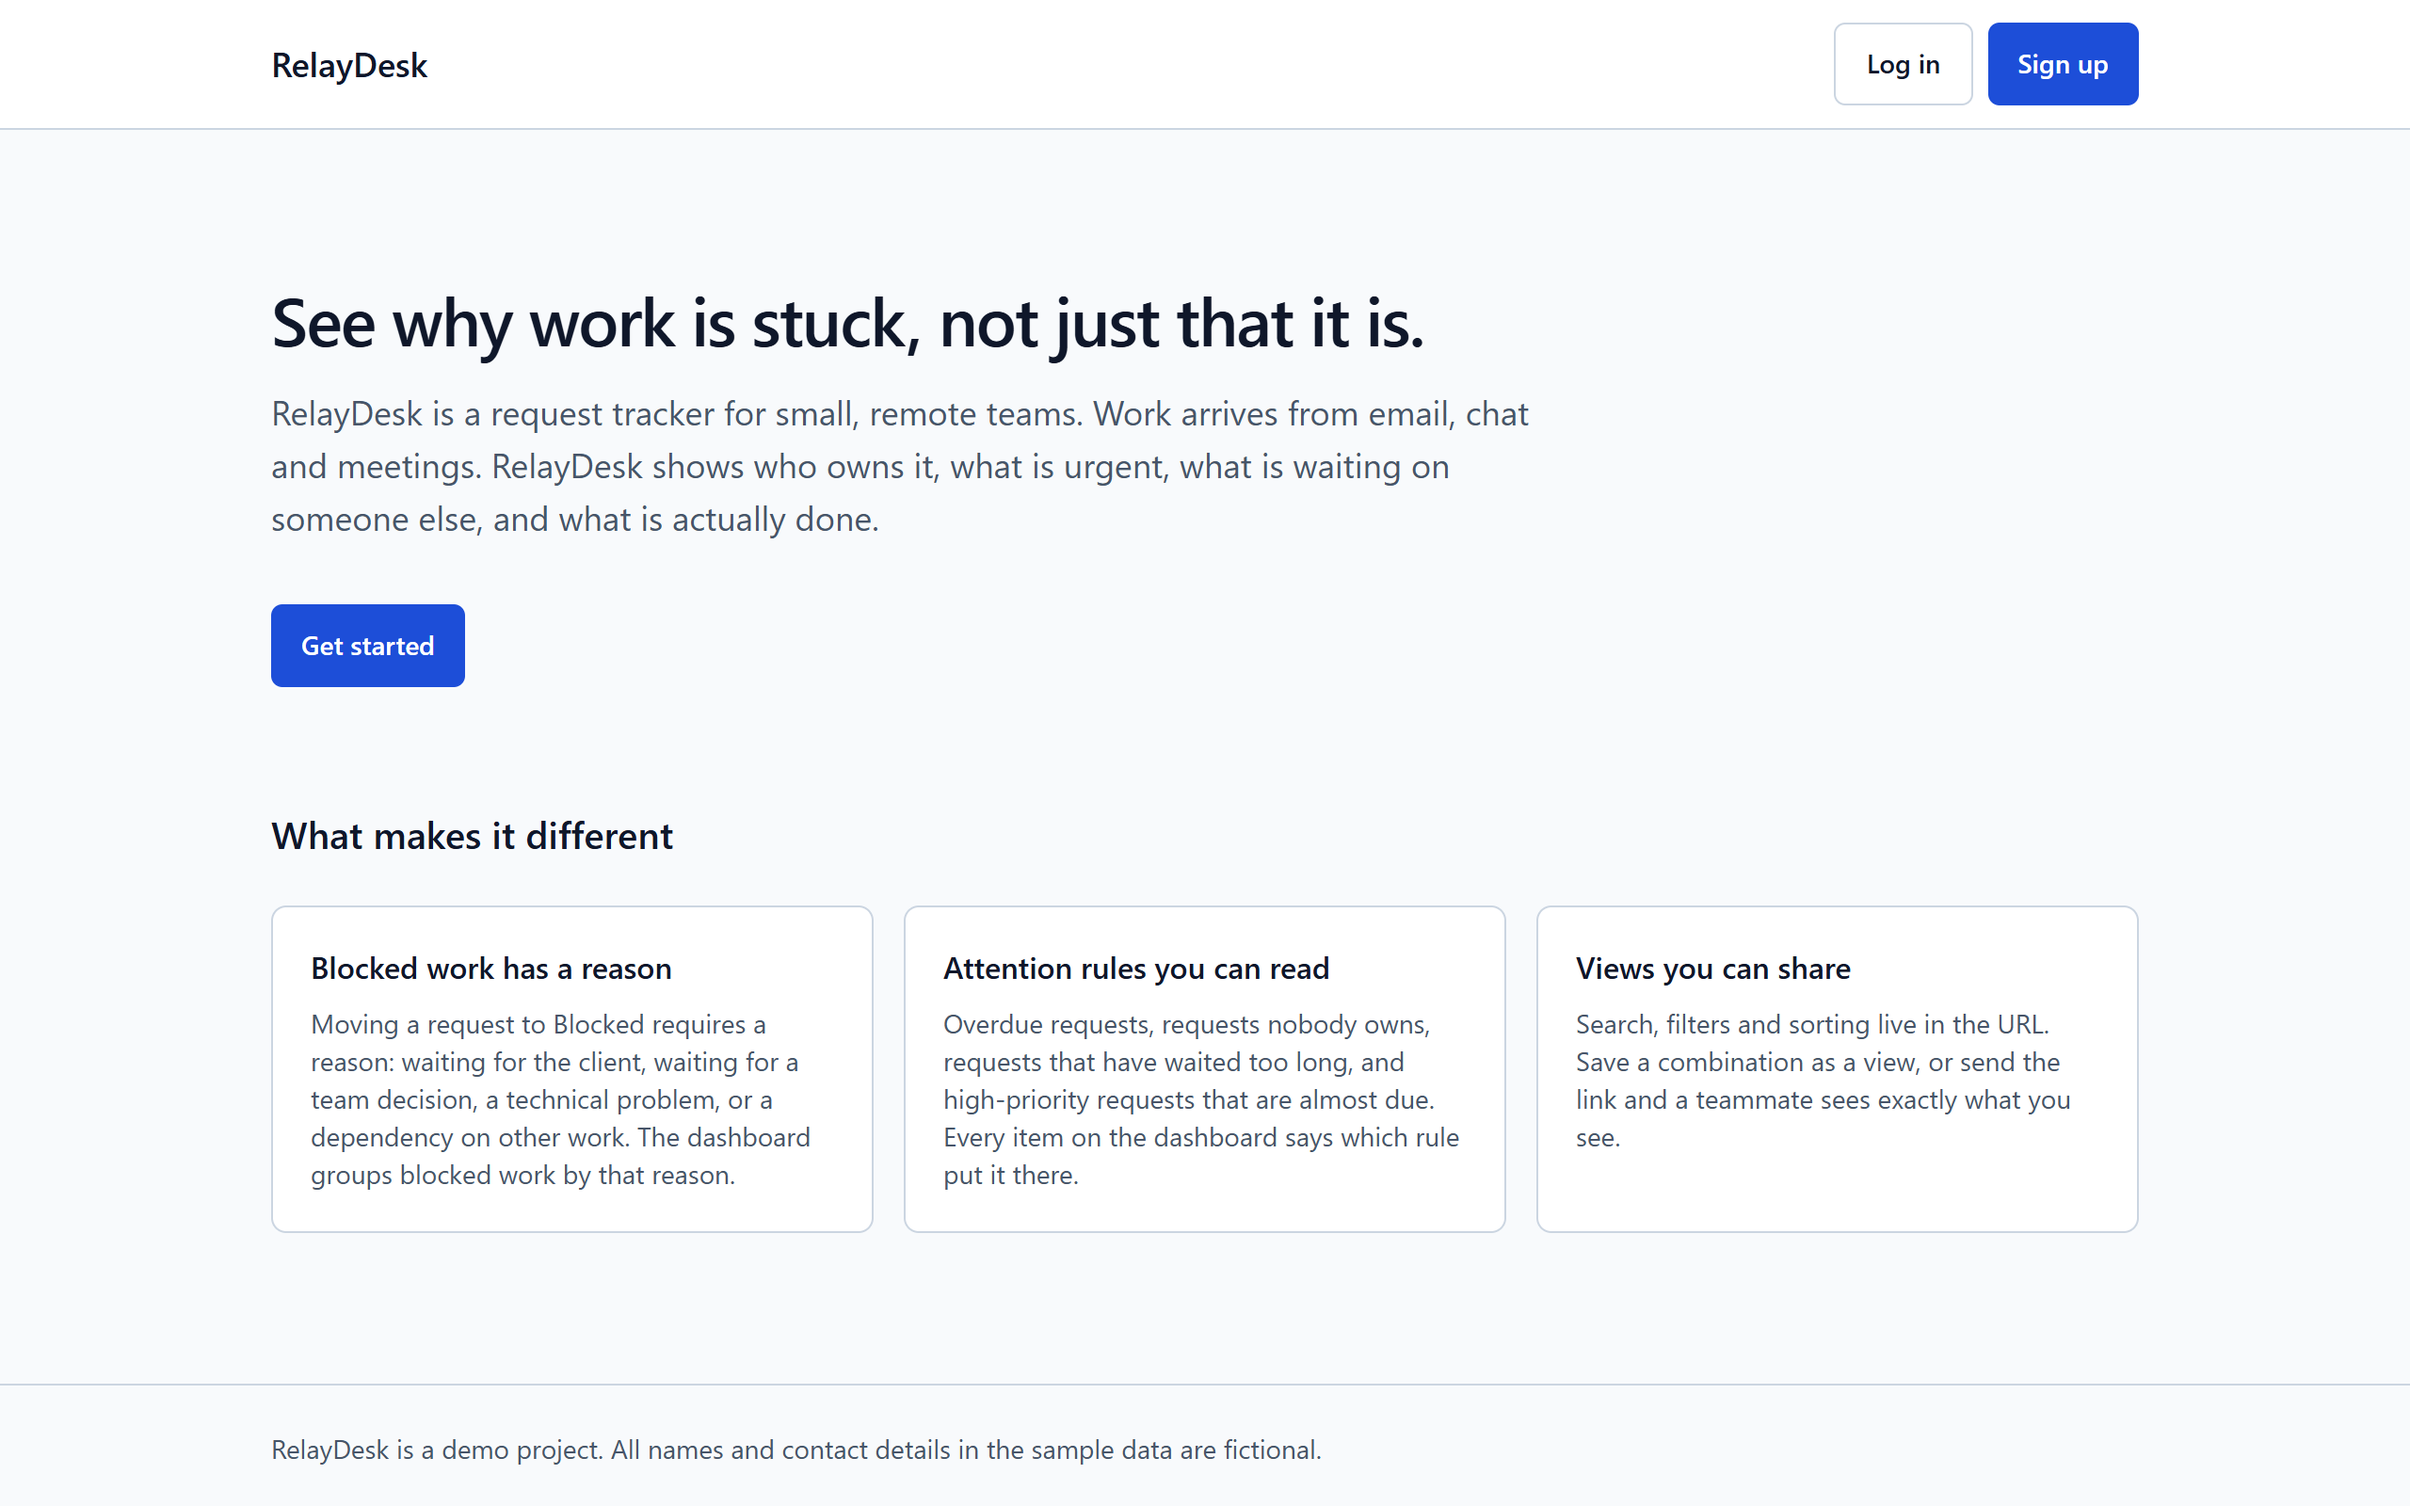
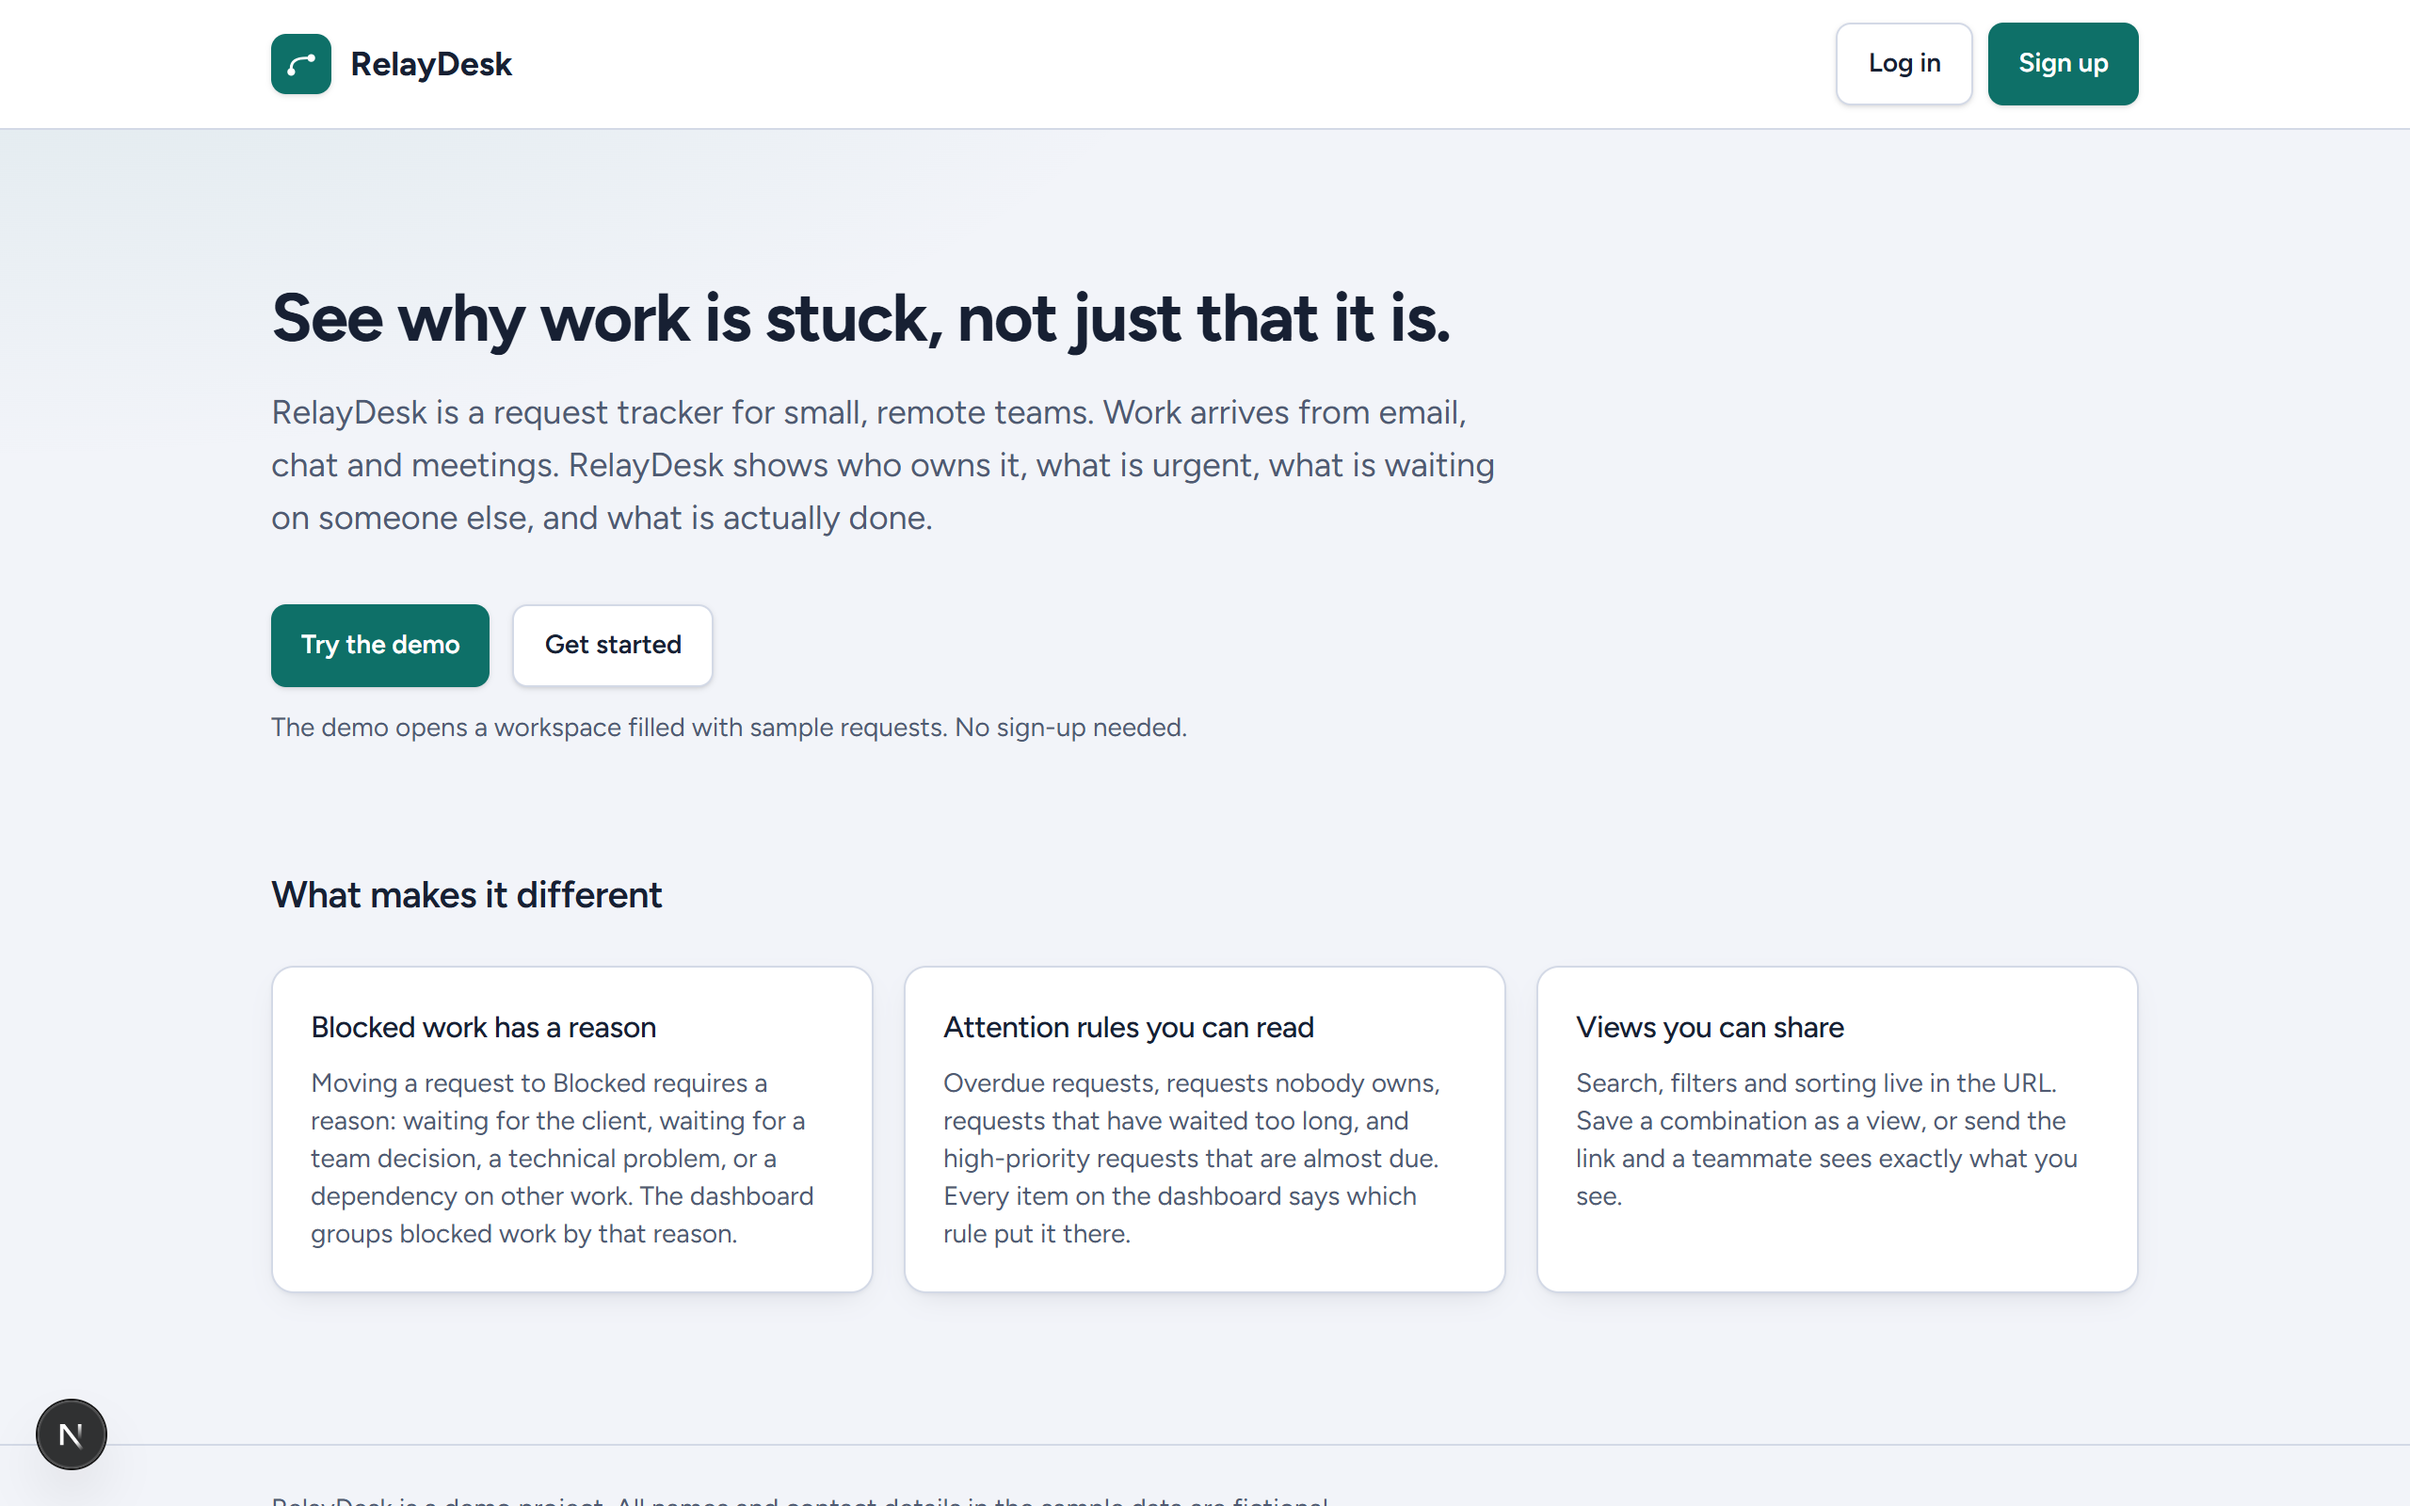
Add README screenshots and log demo sign-in failures

diff --git a/src/tests/unit/demo-route.test.ts b/src/tests/unit/demo-route.test.ts
@@ -13,6 +13,7 @@ vi.mock("next/navigation", () => ({
 vi.mock("@/lib/supabase/server", () => ({ createSupabaseServerClient: mocks.createClient }));
 
 beforeEach(() => {
+  vi.spyOn(console, "error").mockImplementation(() => {});
   mocks.signIn.mockReset();
   mocks.createClient.mockReset();
   mocks.createClient.mockResolvedValue({ auth: { signInWithPassword: mocks.signIn } });
@@ -30,6 +31,10 @@ describe("GET /demo", () => {
     mocks.signIn.mockResolvedValue({ error: { code: "invalid_credentials" } });
 
     await expect(GET()).rejects.toThrow("redirect:/login?demo=unavailable");
+    expect(console.error).toHaveBeenCalledWith(
+      "The demo sign in was refused:",
+      "invalid_credentials",
+    );
   });
 
   it("does the same when the auth service cannot be reached", async () => {

diff --git a/src/app/demo/route.ts b/src/app/demo/route.ts
@@ -17,9 +17,13 @@ export async function GET(): Promise<never> {
       email: DEMO_EMAIL,
       password: DEMO_PASSWORD,
     });
-    signedIn = error === null;
-  } catch {
-    signedIn = false;
+    if (error) {
+      console.error("The demo sign in was refused:", error.code ?? error.message);
+    }
+    signedIn = !error;
+  } catch (error) {
+    // The visitor only sees "not available", so the reason has to be in the server log.
+    console.error("The demo sign in could not reach the auth service:", error);
   }
 
   // redirect() works by throwing, so it stays outside the try block above.
